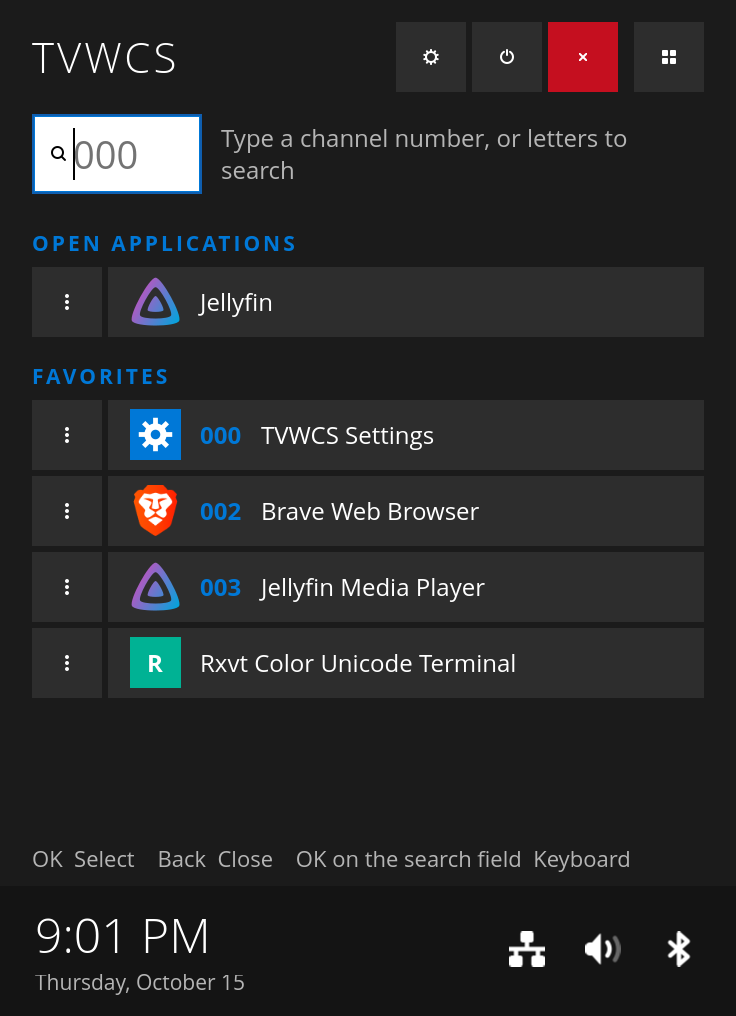
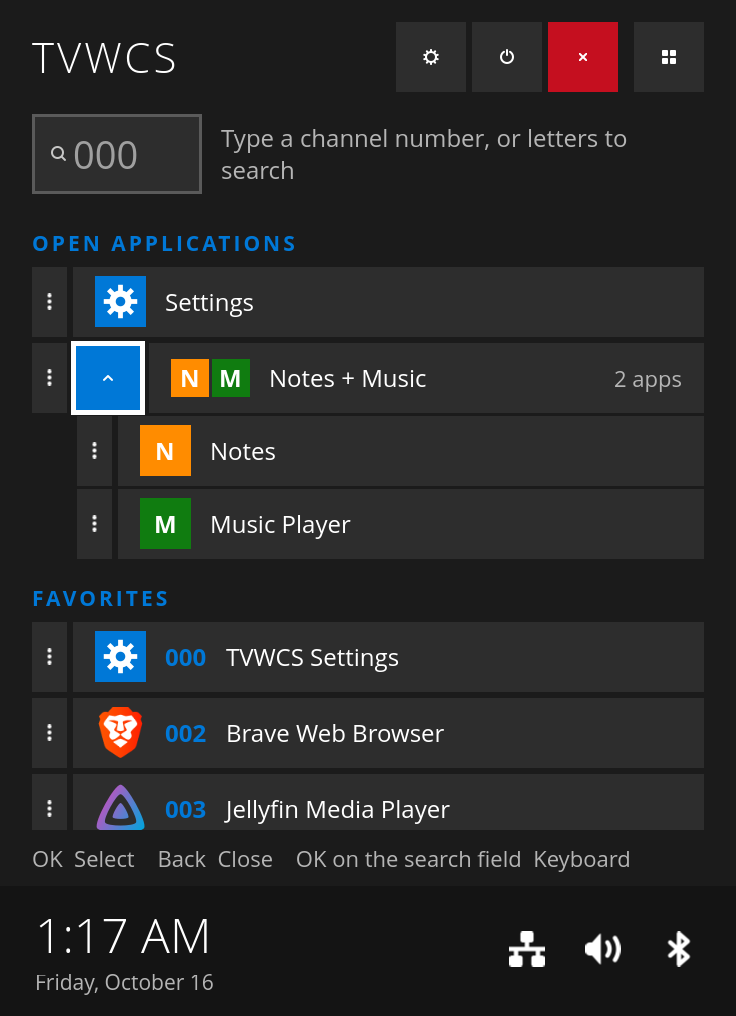
Retake the Quick Menu screenshots with a workspace row expanded
Both screenshots show a workspace with two apps, its show/hide button open
and the apps nested below. The Quick Menu caption mentions it.

Claude-Session: https://claude.ai/code/session_01KgRAfRuFE4Ssiadg3MHhp7

diff --git a/README.md b/README.md
@@ -18,7 +18,7 @@ It works with normal desktop apps. It is not a media center and needs no plugins
     <td valign="top"><img src="assets/guide-menu.png" alt="The Quick Menu with the Applications pane open beside it" width="100%"></td>
   </tr>
   <tr>
-    <td valign="top">Buttons at the top: ⚙ Settings, ⏻ power menu, ✕ close, ⊞ Applications. Below: search, <b>Open applications</b> (by workspace) and <b>Favorites</b>. At the bottom: key hints, the clock, and icons for network, volume, Bluetooth and updates.</td>
+    <td valign="top">Buttons at the top: ⚙ Settings, ⏻ power menu, ✕ close, ⊞ Applications. Below: search, <b>Open applications</b> (by workspace; ▴ here shows the two apps sharing one) and <b>Favorites</b>. At the bottom: key hints, the clock, and icons for network, volume, Bluetooth and updates.</td>
     <td valign="top"><b>Channels</b> lists apps you gave a number. <b>All applications</b> lists every app by category; OK/Enter folds a category. ☆ makes an app a favorite, ✎ edits its launch profiles.</td>
   </tr>
   <tr>
